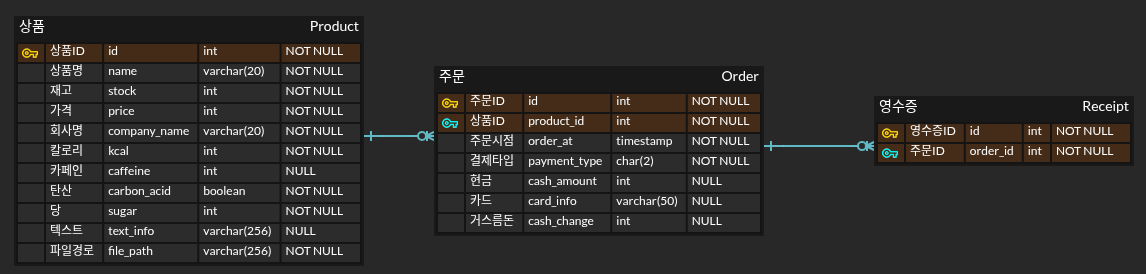
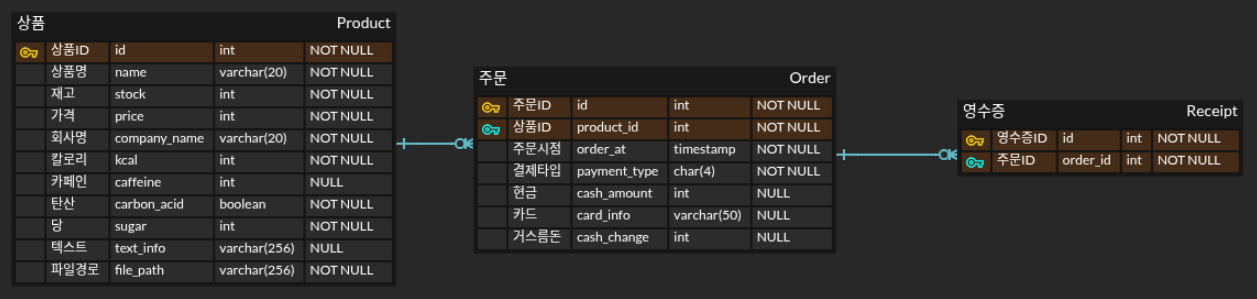
feat: ORM (SQLAlchmey) apply

diff --git a/db/db_starter.py b/db/db_starter.py
@@ -1,90 +1,42 @@
-import sqlite3
+from .db_object import *
+    
+    
+def main():
+    engine = create_engine('sqlite:///db/vending_machine.db')
+    Base.metadata.create_all(engine)        # create table if not exists
+    
+    Session = sessionmaker(bind=engine)
+    session = Session()
 
-conn = sqlite3.connect("vending_machine.db")
-cur = conn.cursor()
+    products = [
+        Product(
+            name="에비앙",
+            stock=10,
+            price=1500,
+            company_name="Evian",
+            kcal=0,
+            caffeine=0,
+            carbon_acid=False,
+            sugar=0,
+            text_info="프랑스에서 온 고급 탄산수",
+            image_path="assets/evian.webp"
+        ),
+        Product(
+            name="핫식스",
+            stock=10,
+            price=1500,
+            company_name="Hot6",
+            kcal=100,
+            caffeine=200,
+            carbon_acid=True,
+            sugar=50,
+            text_info="잠깰 때 좋아요",
+            image_path="assets/hot6.jpg"
+        ),
+    ]
 
-# 테이블 생성
-cur.execute(
-    """
-CREATE TABLE IF NOT EXISTS Product (
-    id INTEGER PRIMARY KEY AUTOINCREMENT,      -- 상품ID
-    name VARCHAR(20) NOT NULL,                 -- 상품명
-    stock INT NOT NULL,                        -- 재고
-    price INT NOT NULL,                        -- 가격
-    company_name VARCHAR(20) NOT NULL,         -- 회사명
-    kcal INT NOT NULL,                         -- 칼로리
-    caffeine INT,                              -- 카페인 (NULL 허용)
-    carbon_acid BOOLEAN,                       -- 탄산 (NULL 허용)
-    sugar INT,                                 -- 당 (NULL 허용)
-    text_info VARCHAR(200),                    -- 텍스트 (NULL 허용)
-    image_path VARCHAR(100) NOT NULL           -- 이미지 경로
-)
-"""
-)
+    session.add_all(products)
+    session.commit()
 
-cur.execute(
-    """
-CREATE TABLE IF NOT EXISTS "Order" (
-    id INTEGER PRIMARY KEY AUTOINCREMENT,      -- 주문ID
-    product_id INT NOT NULL,                   -- 상품ID (외래키)
-    order_at TIMESTAMP NOT NULL,               -- 주문시점
-    payment_type CHAR(2) NOT NULL,             -- 결제타입
-    cash_amount INT,                           -- 현금 (NULL 허용)
-    card_info VARCHAR(50),                     -- 카드 (NULL 허용)
-    cash_change INT,                           -- 거스름돈 (NULL 허용)
-    FOREIGN KEY (product_id) REFERENCES Product(id)
-)
-"""
-)
-
-cur.execute(
-    """
-CREATE TABLE IF NOT EXISTS Receipt (
-    id INTEGER PRIMARY KEY AUTOINCREMENT,      -- 영수증ID
-    order_id INT NOT NULL,                     -- 주문ID (외래키)
-    FOREIGN KEY (order_id) REFERENCES "Order"(id)
-)
-"""
-)
-
-# 데이터 삽입
-cur.execute(
-    """
-    INSERT INTO Product
-    (name, stock, price, company_name, kcal, caffeine, carbon_acid, sugar, text_info, image_path)
-    VALUES (?, ?, ?, ?, ?, ?, ?, ?, ?, ?)
-    """,
-    (
-        "에비앙",
-        10,
-        1500,
-        "Evian",
-        0,
-        0,
-        0,
-        0,
-        "프랑스에서 온 고급 탄산수",
-        "assets/evian.webp",
-    ),
-    (
-        "핫식스",
-        10,
-        1500,
-        "Hot6",
-        100,
-        200,
-        True,
-        50,
-        "잠깰 때 좋아요",
-        "assets/hot6.jpg",
-    ),
-)
-
-# 데이터 조회
-cur.execute("SELECT * FROM Product")
-rows = cur.fetchall()
-for row in rows:
-    print(row)
-
-conn.commit()
-conn.close()
+if __name__ == "__main__":
+    main()

diff --git a/db/db_object.py b/db/db_object.py
@@ -1,0 +1,35 @@
+from sqlalchemy import *
+from sqlalchemy.orm import *
+
+Base = declarative_base()
+
+class Product(Base):
+    __tablename__ = 'Product'
+    id = Column(Integer, primary_key=True)
+    name = Column(String, nullable=False)
+    stock = Column(Integer, nullable=False)
+    price = Column(Integer, nullable=False)
+    company_name = Column(String, nullable=False)
+    kcal = Column(Integer)
+    caffeine = Column(Integer)
+    carbon_acid = Column(Boolean)
+    sugar = Column(Integer)
+    text_info = Column(String)
+    image_path = Column(String, nullable=False)
+    
+    
+class Order(Base):
+    __tablename__ = 'Order'
+    id = Column(Integer, primary_key=True)
+    product_id = Column(Integer, ForeignKey('Product.id'), nullable=False)
+    order_at = Column(TIMESTAMP)
+    payment_type = Column(CHAR(4))
+    cash_amount = Column(INTEGER)
+    card_info = Column(String)
+    cash_change = Column(INTEGER)
+    
+    
+class Receipt(Base):
+    __tablename__ = 'Receipt'
+    id = Column(Integer, primary_key=True)
+    order_id = Column(Integer, ForeignKey('Order.id'), nullable=False)

diff --git a/ui/main_window.py b/ui/main_window.py
@@ -20,8 +20,7 @@ class VendingMachine(QWidget):
         self.setWindowTitle("자판기")
 
         product_list = controller.get_all()
-        print(product_list[0][1])
-
+        
         products = QGridLayout(self.products)
         for i in range(3):
             for j in range(4):
@@ -34,7 +33,7 @@ class VendingMachine(QWidget):
                     "background-color: #eee; border: 1px solid #ccc;"
                 )
                 try:
-                    btn = QPushButton(product_list[i * 4 + j][1])
+                    btn = QPushButton(product_list[i * 4 + j].name)
                 except:
                     btn = QPushButton(f"상품 {i * 4 + j + 1}")
                 btn.setDisabled(True)

diff --git a/db/db_manager.py b/db/db_manager.py
@@ -1,18 +1,11 @@
-import sqlite3
-
+from .db_object import *
 
 def get_all():
-    conn = sqlite3.connect("vending_machine.db")
-    cur = conn.cursor()
+    engine = create_engine('sqlite:///db/vending_machine.db')
+    Session = sessionmaker(bind=engine)
+    session = Session()
 
-    product_list = []
+    product_list = session.query(Product).all()
 
-    cur.execute("SELECT * FROM Product")
-    rows = cur.fetchall()
-    for row in rows:
-        product_list.append(row)
-
-    conn.commit()
-    conn.close()
-
+    session.close()
     return product_list

diff --git a/README.md b/README.md
@@ -18,6 +18,12 @@ PBL_VENDING_MACHINE/
 └── requirements.txt
 ```
 
+## 개발 환경
+|   |   |
+|---|---|
+|개발환경|![Ubuntu](https://img.shields.io/badge/Ubuntu-E95420?style=for-the-badge&logo=Ubuntu&logoColor=white) ![Visual Studio Code](https://img.shields.io/badge/Visual%20Studio%20Code-007ACC?style=for-the-badge&logo=Visual%20Studio%20Code&logoColor=white) ![Git](https://img.shields.io/badge/Git-F05032?style=for-the-badge&logo=Git&logoColor=white) ![Github](https://img.shields.io/badge/GitHub-181717?style=for-the-badge&logo=GitHub&logoColor=white)|
+|기술|![Python](https://img.shields.io/badge/python-3776AB?style=for-the-badge&logo=python&logoColor=white) ![SQLite](https://img.shields.io/badge/sqlite-003B57?style=for-the-badge&logo=sqlite&logoColor=white) ![SQLAlchemy](https://img.shields.io/badge/SQLAlchemy-D71F00?style=for-the-badge&logo=SQLAlchemy&logoColor=white) ![Qt](https://img.shields.io/badge/Qt-41CD52?style=for-the-badge&logo=Qt&logoColor=white) ![Flask](https://img.shields.io/badge/flask-000000?style=for-the-badge&logo=flask&logoColor=white) ![ScikitLearn](https://img.shields.io/badge/scikitlearn-F7931E?style=for-the-badge&logo=scikitlearn&logoColor=white) ![MediaPipe](https://img.shields.io/badge/mediapipe-0097A7?style=for-the-badge&logo=mediapipe&logoColor=white)|
+
 ## 설계
 - 시나리오: 고객이 음료 구매
 <p align="center">
@@ -30,32 +36,31 @@ PBL_VENDING_MACHINE/
 - 데이터베이스 구조
 <img src="design/ERD.png">
 
-## 개발 환경
-|   |   |
-|---|---|
-|개발환경|![Ubuntu](https://img.shields.io/badge/Ubuntu-E95420?style=for-the-badge&logo=Ubuntu&logoColor=white) ![Visual Studio Code](https://img.shields.io/badge/Visual%20Studio%20Code-007ACC?style=for-the-badge&logo=Visual%20Studio%20Code&logoColor=white) ![Git](https://img.shields.io/badge/Git-F05032?style=for-the-badge&logo=Git&logoColor=white) ![Github](https://img.shields.io/badge/GitHub-181717?style=for-the-badge&logo=GitHub&logoColor=white)|
-|기술|![Python](https://img.shields.io/badge/python-3776AB?style=for-the-badge&logo=python&logoColor=white) ![SQLite+](https://img.shields.io/badge/sqlite-003B57?style=for-the-badge&logo=sqlite&logoColor=white) ![Qt](https://img.shields.io/badge/Qt-41CD52?style=for-the-badge&logo=Qt&logoColor=white) ![Flask](https://img.shields.io/badge/flask-000000?style=for-the-badge&logo=flask&logoColor=white) ![ScikitLearn](https://img.shields.io/badge/scikitlearn-F7931E?style=for-the-badge&logo=scikitlearn&logoColor=white) ![MediaPipe](https://img.shields.io/badge/mediapipe-0097A7?style=for-the-badge&logo=mediapipe&logoColor=white)|
-
-
 ## 시연 영상
 
 ## 실행 방법
+- 모든 명령어는 프로젝트 루트 디렉토리에서 실행해주세요.
 ### 0. 외부 라이브러리 설치
 ```
 pip install -r requirements.txt
 ```
 
-### 1. 자판기
+### 1. DB 생성 및 데이터 입력
+```
+python -m db.db_start
+```
+
+### 2. 자판기 (PyQt)
 - 자판기이므로 IoT로 구현가능하도록 PyQt로 UI를 제작했습니다.
-- 프로젝트 루트 디렉토리에서 아래 명령어로 실행해주세요.
 ```
 python -m ui.main_window
 ```
 
-### 2. 자판기 관리자 (웹페이지)
-- 로컬호스트에서 실행할 수 있으며, 관리자가 PC에서 웹에 접속하는 화면을 염두에 두고 Flask를 사용하여 개발했습니다.
+### 3. 자판기 관리자 (웹페이지)
+- 로컬호스트에서 실행됩니다.
+- 관리자가 PC에서 접속하는 페이지로 가정하고 Flask를 사용하여 개발했습니다.
 ```
-python3 admin/app.py
+python -m admin.app
 ```
 
 ## 부가 기능: 이상행동 감지
